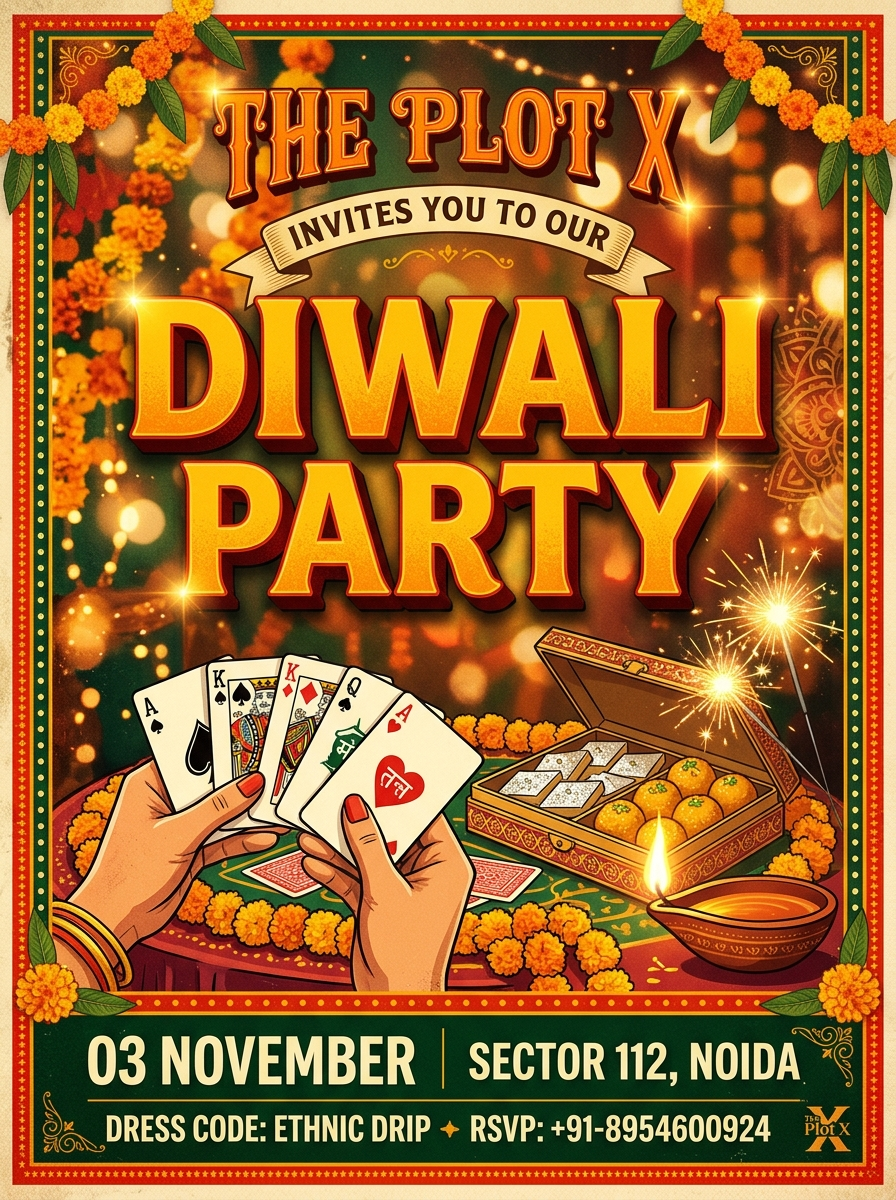
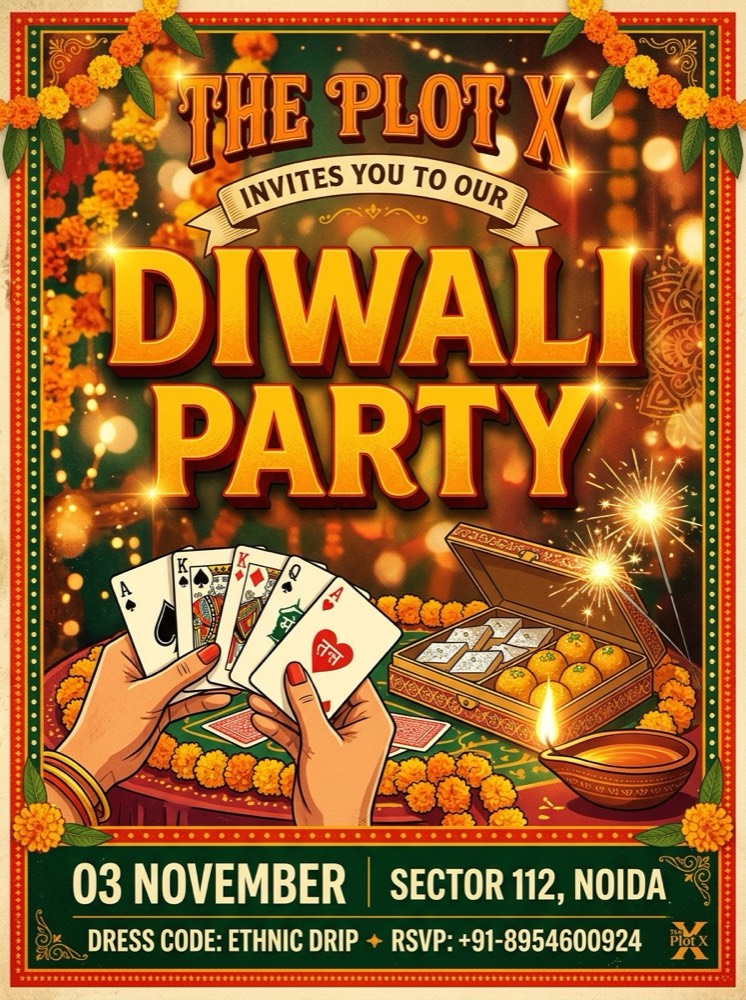
perf: optimize poster image size by 76%, add instant cache rendering, and lightweight screenshot compression for lightning fast loading

diff --git a/admin.html b/admin.html
@@ -269,34 +269,57 @@
 
     let allRsvps = [];
     let currentCategoryFilter = 'ALL';
+    let isFetching = false;
 
     function triggerPartyConfetti() {
       if (typeof confetti === 'function') {
         try {
-          confetti({ particleCount: 50, spread: 60, origin: { y: 0.6 } });
+          confetti({ particleCount: 40, spread: 50, origin: { y: 0.6 } });
         } catch (e) {
           console.log(e);
         }
       }
     }
 
-    // Auto-fetch entries on page load
+    // Fast Cache-First Rendering (Instant display in 0ms)
+    try {
+      const cached = sessionStorage.getItem('plotx_rsvps_cache');
+      if (cached) {
+        allRsvps = JSON.parse(cached);
+        if (allRsvps && allRsvps.length > 0) {
+          updateMetrics(allRsvps);
+          applyFilters();
+          const loadingEl = document.getElementById('loading-state');
+          if (loadingEl) loadingEl.classList.add('hidden');
+        }
+      }
+    } catch (e) {
+      console.warn('Cache read notice:', e);
+    }
+
+    // Fetch once on load
     window.addEventListener('DOMContentLoaded', () => {
       fetchRsvps();
     });
-    fetchRsvps();
 
-    // Fetch RSVPs from Supabase
+    // Fetch RSVPs from Supabase (Optimized)
     async function fetchRsvps() {
+      if (isFetching) return;
+      isFetching = true;
+
       const loadingEl = document.getElementById('loading-state');
       const tableEl = document.getElementById('table-container');
       const emptyEl = document.getElementById('empty-state');
 
-      loadingEl.classList.remove('hidden');
-      tableEl.classList.add('hidden');
-      emptyEl.classList.add('hidden');
+      // Only show full loading if we have no cached rows
+      if (allRsvps.length === 0) {
+        loadingEl.classList.remove('hidden');
+        tableEl.classList.add('hidden');
+        emptyEl.classList.add('hidden');
+      }
 
       if (!supabase) {
+        isFetching = false;
         alert('Supabase client failed to load.');
         return;
       }
@@ -304,26 +327,39 @@
       try {
         const { data, error } = await supabase
           .from('rsvps')
-          .select('*')
+          .select('id, created_at, pass_code, name, instagram, category, price, phone, party_vibe, payment_screenshot')
           .order('created_at', { ascending: false });
 
+        isFetching = false;
         loadingEl.classList.add('hidden');
 
         if (error) {
           console.error(error);
-          emptyEl.classList.remove('hidden');
-          emptyEl.querySelector('p').innerText = "Table check karein: " + error.message;
+          if (allRsvps.length === 0) {
+            emptyEl.classList.remove('hidden');
+            emptyEl.querySelector('p').innerText = "Table notice: " + error.message;
+          }
           return;
         }
 
         allRsvps = data || [];
+        // Save to fast cache
+        try {
+          sessionStorage.setItem('plotx_rsvps_cache', JSON.stringify(allRsvps));
+        } catch (err) {
+          // If storage full due to large screenshots, ignore
+        }
+
         updateMetrics(allRsvps);
         applyFilters();
 
       } catch (err) {
+        isFetching = false;
         console.error(err);
         loadingEl.classList.add('hidden');
-        emptyEl.classList.remove('hidden');
+        if (allRsvps.length === 0) {
+          emptyEl.classList.remove('hidden');
+        }
       }
     }
 
@@ -443,7 +479,7 @@
         const hasScreenshot = item.payment_screenshot && item.payment_screenshot.length > 50;
         const screenshotThumbnail = hasScreenshot
           ? `<button onclick="openLightbox(${idx})" class="group relative rounded-xl border-2 border-pureBlack overflow-hidden w-14 h-16 bg-pureBlack shadow-pop-sm block focus:outline-none">
-              <img src="${item.payment_screenshot}" alt="Receipt" class="w-full h-full object-cover group-hover:scale-110 transition-transform">
+              <img src="${item.payment_screenshot}" alt="Receipt" loading="lazy" decoding="async" class="w-full h-full object-cover group-hover:scale-110 transition-transform">
               <span class="absolute inset-0 bg-pureBlack/40 flex items-center justify-center opacity-0 group-hover:opacity-100 transition-opacity text-white text-[10px] font-black">
                 ZOOM
               </span>

diff --git a/index.html b/index.html
@@ -1528,11 +1528,11 @@
       reader.onload = function(event) {
         const img = new Image();
         img.onload = function() {
-          // Compress to lightweight JPEG (max 800px width/height)
+          // Compress to ultra-lightweight JPEG (max 600px, 0.6 quality) for super-fast upload
           const canvas = document.createElement('canvas');
           let width = img.width;
           let height = img.height;
-          const maxDim = 800;
+          const maxDim = 600;
 
           if (width > maxDim || height > maxDim) {
             if (width > height) {
@@ -1549,7 +1549,7 @@
           const ctx = canvas.getContext('2d');
           ctx.drawImage(img, 0, 0, width, height);
 
-          currentPaymentScreenshot = canvas.toDataURL('image/jpeg', 0.7);
+          currentPaymentScreenshot = canvas.toDataURL('image/jpeg', 0.6);
 
           // Update Preview UI
           const previewBox = document.getElementById('screenshot-preview-box');
